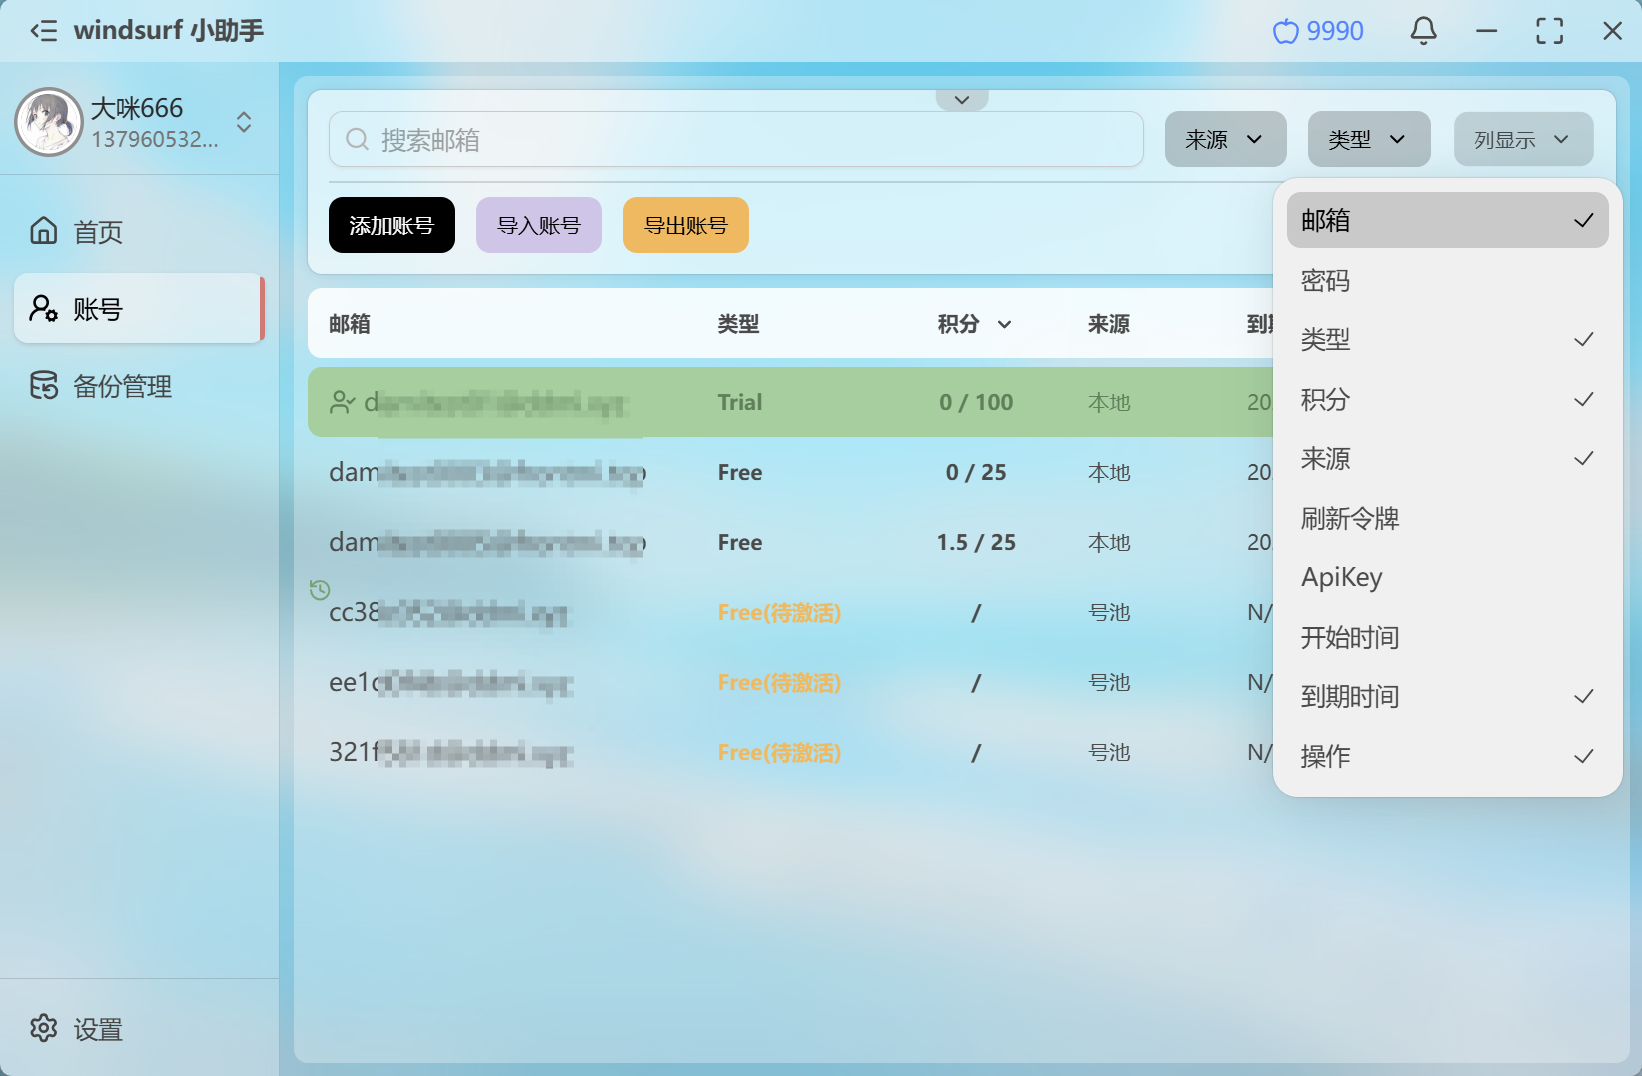
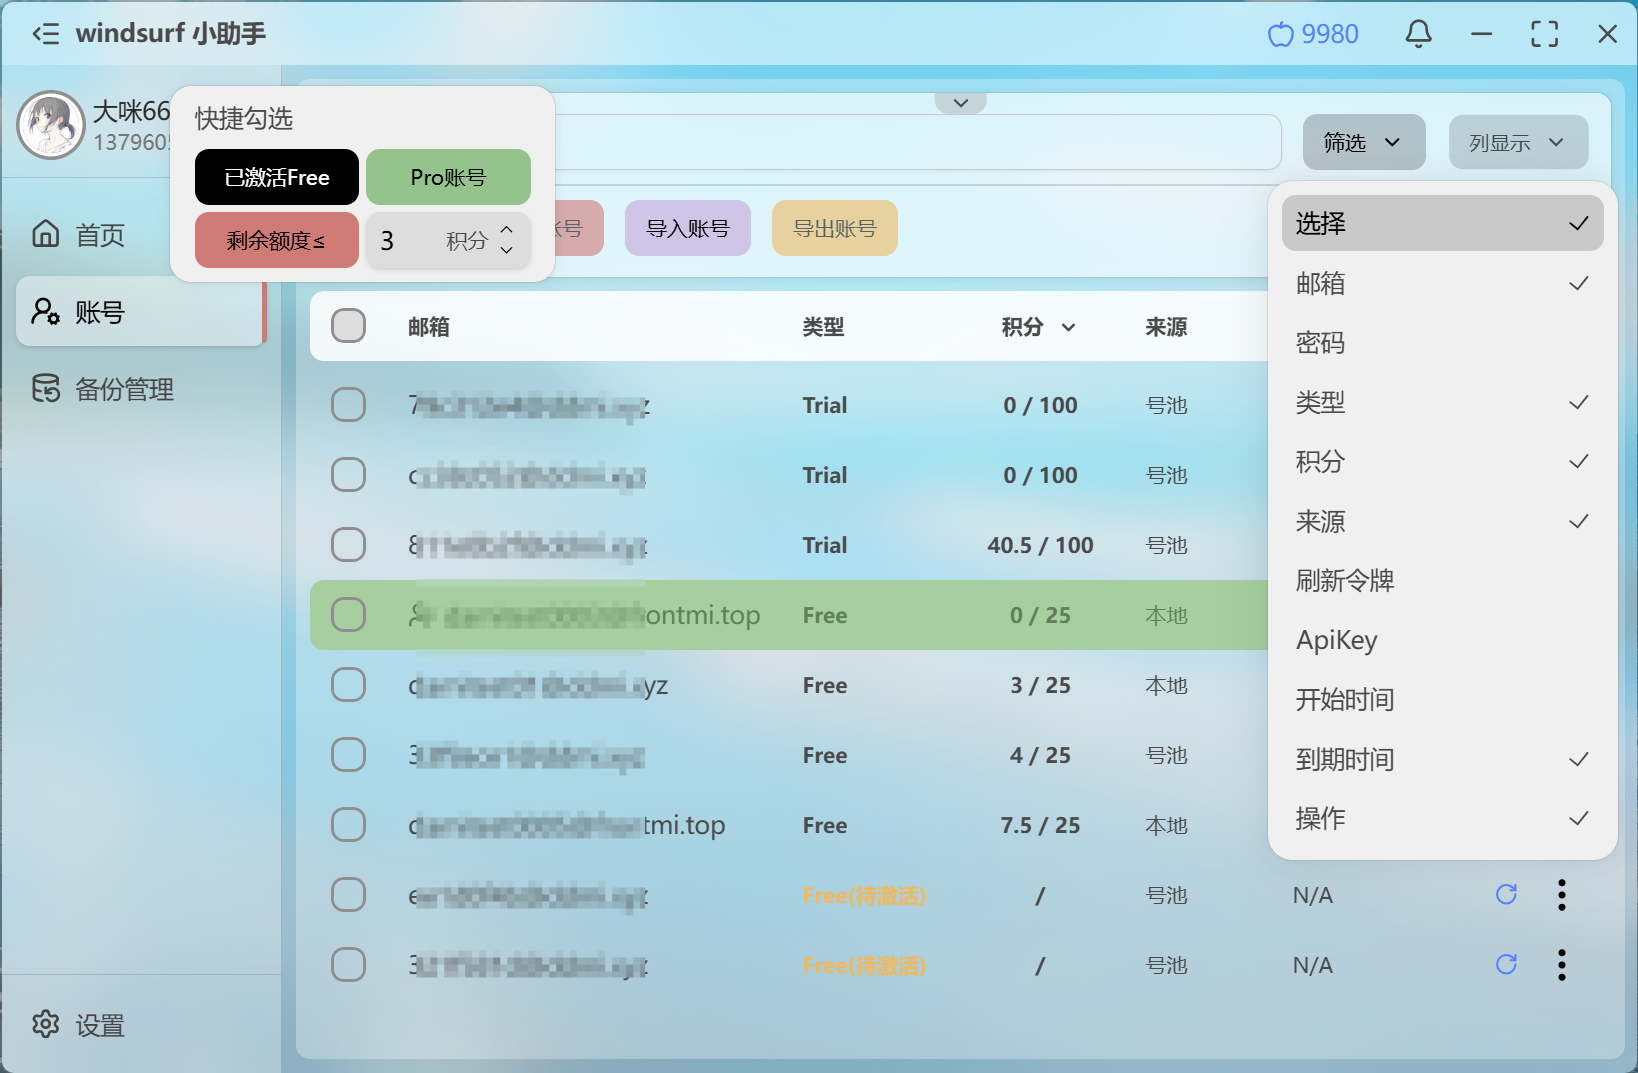
update image

diff --git a/README.md b/README.md
@@ -14,6 +14,10 @@
 - 切号操作
 - 导入账号
 - 导出账号
+- 批量删除
+- 批量刷新
+- 快捷勾选
+- 切号后自动重启
 - 自动更新
 - 公告通知
 - 卡密充值
